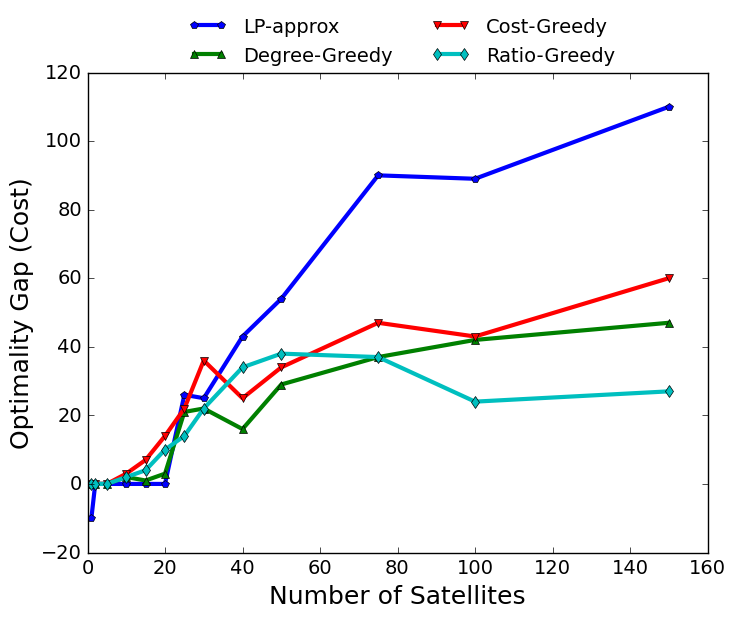
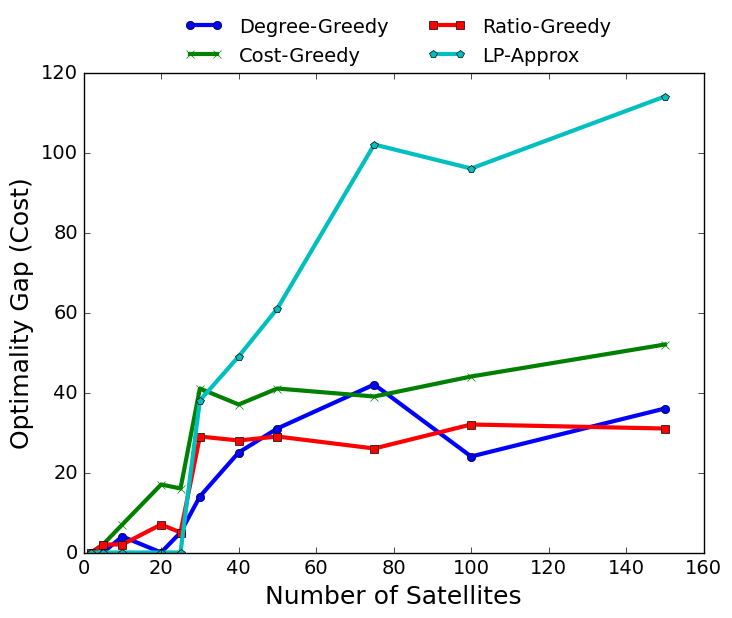
edits

diff --git a/optimization_experiments.py b/optimization_experiments.py
@@ -14,7 +14,7 @@ def get_covered_tuple_nodes(G, tuple_nodes):
     
     return covered_tuple_nodes
 
-num_satellites_list = [1, 2, 5, 10, 15, 20, 25, 30, 40, 50, 75, 100, 150]
+num_satellites_list = [2, 5, 10, 20, 25, 30, 40, 50, 75, 100, 150]
 num_timesteps_list = list(num_satellites_list)
 num_locations_list = [5 for _ in range(len(num_satellites_list))]
 COVERAGE_PROB = 0.5
@@ -33,6 +33,11 @@ ratio_gaps = []
 online_ratio_gaps = []
 ilp_gaps = []
 lp_gaps = []
+deg_coverages = []
+cost_coverages = []
+ratio_coverages = []
+lp_coverages = []
+ilp_coverages = []
 
 for (num_timesteps, num_locations, num_satellites) in zip(num_timesteps_list, num_locations_list, num_satellites_list):
     print(f"num_timesteps: {num_timesteps}, num_locations: {num_locations}, num_satellites: {num_satellites}")
@@ -41,12 +46,18 @@ for (num_timesteps, num_locations, num_satellites) in zip(num_timesteps_list, nu
     while len(feasible_tuple_nodes) < COVERAGE_PROB * num_timesteps * num_locations:
         G, tuple_nodes, satellite_nodes = create_satellite_bipartite_graph(num_locations, num_timesteps, num_satellites, COVERAGE_PROB)
         feasible_tuple_nodes = get_covered_tuple_nodes(G, tuple_nodes)
+    
+    all_coverable_tuple_nodes = set([tuple_node for tuple_node in tuple_nodes if G.degree(tuple_node) > 0])
     start = time.time()
     ilp_satellite_set, ilp_cost = weighted_set_cover_ilp(G, feasible_tuple_nodes, satellite_nodes)
     end = time.time()
     ilp_times.append(end - start)
     brute_force_cost = ilp_cost
     brute_force_satellite_set = ilp_satellite_set
+    ilp_covered = set()
+    for satellite in ilp_satellite_set:
+        ilp_covered.update(set(G.neighbors(satellite)))
+    ilp_coverages.append(100 * len(ilp_covered) / len(all_coverable_tuple_nodes))
     '''
     start = time.time()
     brute_force_satellite_set, brute_force_cost = brute_force_algorithm(G, feasible_tuple_nodes, satellite_nodes)
@@ -65,6 +76,10 @@ for (num_timesteps, num_locations, num_satellites) in zip(num_timesteps_list, nu
         print(f"Brute force satellite set: {brute_force_satellite_set}")
     deg_times.append(end - start)
     deg_gaps.append(greedy_degree_cost - brute_force_cost)
+    deg_covered = set()
+    for satellite in greedy_degree_satellite_set:
+        deg_covered.update(set(G.neighbors(satellite)))
+    deg_coverages.append(100 * len(deg_covered) / len(all_coverable_tuple_nodes))
 
     start = time.time()
     greedy_cost_satellite_set, greedy_cost_cost = greedy_cost_based_algorithm(G, feasible_tuple_nodes, satellite_nodes)
@@ -78,6 +93,10 @@ for (num_timesteps, num_locations, num_satellites) in zip(num_timesteps_list, nu
         print(f"Brute force satellite set: {brute_force_satellite_set}")
     cost_times.append(end - start)
     cost_gaps.append(greedy_cost_cost - brute_force_cost)
+    cost_covered = set()
+    for satellite in greedy_cost_satellite_set:
+        cost_covered.update(set(G.neighbors(satellite)))
+    cost_coverages.append(100 * len(cost_covered) / len(all_coverable_tuple_nodes))
 
     start = time.time()
     greedy_ratio_satellite_set, greedy_ratio_cost = greedy_ratio_based_algorithm(G, feasible_tuple_nodes, satellite_nodes)
@@ -91,6 +110,10 @@ for (num_timesteps, num_locations, num_satellites) in zip(num_timesteps_list, nu
         print(f"Brute force satellite set: {brute_force_satellite_set}")
     ratio_times.append(end - start)
     ratio_gaps.append(greedy_ratio_cost - brute_force_cost)
+    ratio_covered = set()
+    for satellite in greedy_ratio_satellite_set:
+        ratio_covered.update(set(G.neighbors(satellite)))
+    ratio_coverages.append(100 * len(ratio_covered) / len(all_coverable_tuple_nodes))
 
     '''
     start = time.time()
@@ -107,21 +130,25 @@ for (num_timesteps, num_locations, num_satellites) in zip(num_timesteps_list, nu
     online_ratio_gaps.append(online_greedy_ratio_cost - brute_force_cost)
     '''
 
-    k = 2 * math.ceil(np.log(num_satellites))
+    k = 2 * math.ceil(np.log(num_timesteps * num_locations))
     start = time.time()
     lp_satellite_set, lp_cost = weighted_set_cover_lp_relaxation(G, feasible_tuple_nodes, satellite_nodes, k)
     end = time.time()   
     lp_times.append(end - start)
     lp_gaps.append(lp_cost - brute_force_cost)
+    lp_covered = set()
+    for satellite in lp_satellite_set:
+        lp_covered.update(set(G.neighbors(satellite)))
+    lp_coverages.append(100 * len(lp_covered) / len(all_coverable_tuple_nodes))
 
 plt.style.use('classic')
 plt.rcParams.update({'font.size': 14})
 # plt.plot(x_vals, brute_force_times, marker='s', lw=3, label="Brute-Force")
-plt.plot(x_vals, ilp_times, marker='d', lw=3, label="ILP")
-plt.plot(x_vals, lp_times, marker='p', lw=3, label="LP-Approx")
 plt.plot(x_vals, deg_times, marker='o', lw=3, label="Degree-Greedy")
 plt.plot(x_vals, cost_times, marker='x', lw=3, label="Cost-Greedy")
-plt.plot(x_vals, ratio_times, marker='*', lw=3, label="Ratio-Greedy")
+plt.plot(x_vals, ratio_times, marker='s', lw=3, label="Ratio-Greedy")
+plt.plot(x_vals, lp_times, marker='p', lw=3, label="LP-Approx")
+plt.plot(x_vals, ilp_times, marker='d', lw=3, label="ILP")
 # plt.plot(x_vals, online_ratio_times, marker='^', lw=3, label="Online Ratio-Greedy")
 plt.xlabel("Number of Satellites", fontsize=18)
 plt.ylabel("Time (s)", fontsize=18)
@@ -130,12 +157,24 @@ plt.savefig('time_comparison.png', bbox_inches='tight')
 
 plt.clf()
 plt.rcParams.update({'font.size': 14})
-plt.plot(x_vals, lp_gaps, marker='p', lw=3, label="LP-approx")
-plt.plot(x_vals, deg_gaps, marker='^', lw=3, label="Degree-Greedy")
-plt.plot(x_vals, cost_gaps, marker='v', lw=3, label="Cost-Greedy")
-plt.plot(x_vals, ratio_gaps, marker='d', lw=3, label="Ratio-Greedy")
+plt.plot(x_vals, deg_gaps, marker='o', lw=3, label="Degree-Greedy")
+plt.plot(x_vals, cost_gaps, marker='x', lw=3, label="Cost-Greedy")
+plt.plot(x_vals, ratio_gaps, marker='s', lw=3, label="Ratio-Greedy")
+plt.plot(x_vals, lp_gaps, marker='p', lw=3, label="LP-Approx")
 # plt.plot(x_vals, online_ratio_gaps, marker='o', lw=3, label="Online Ratio-Greedy")
 plt.xlabel("Number of Satellites", fontsize=18)
 plt.ylabel("Optimality Gap (Cost)", fontsize=18)
 plt.legend(loc=(0.15, 1), frameon=False, ncols=2, fontsize=14)
 plt.savefig('optimality_gap.png', bbox_inches='tight')
+
+plt.clf()
+plt.rcParams.update({'font.size': 14})
+plt.plot(x_vals, deg_coverages, marker='o', lw=3, label="Degree-Greedy")    
+plt.plot(x_vals, cost_coverages, marker='x', lw=3, label="Cost-Greedy")
+plt.plot(x_vals, ratio_coverages, marker='s', lw=3, label="Ratio-Greedy")
+plt.plot(x_vals, lp_coverages, marker='p', lw=3, label="LP-Approx")
+plt.plot(x_vals, ilp_coverages, marker='d', lw=3, label="ILP")
+plt.xlabel("Number of Satellites", fontsize=18)
+plt.ylabel("Coverage (%)", fontsize=18)
+plt.legend(loc=(0, 1), frameon=False, ncol=3, fontsize=14)
+plt.savefig('coverage.png', bbox_inches='tight')
